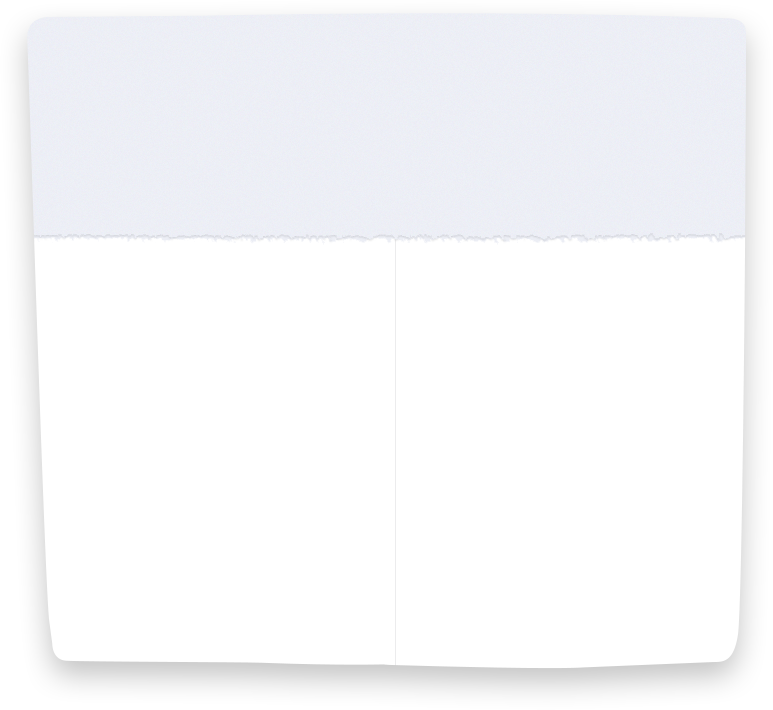
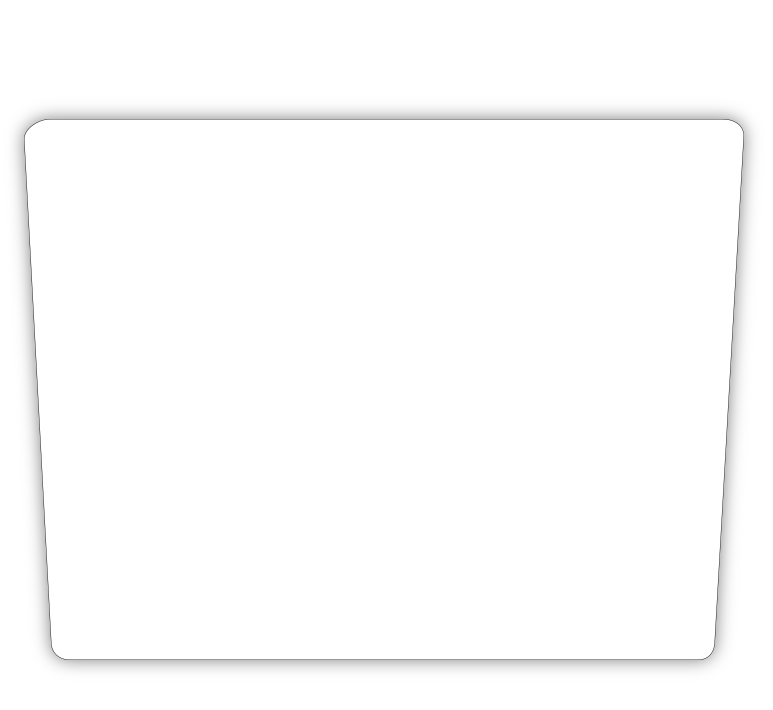
fix modal on checkout page

diff --git a/styles/forms.css b/styles/forms.css
@@ -304,7 +304,10 @@
   padding: 32px 0 30px; }
 
 .form-order-notauth .total {
-  padding: 32px 0 61px; }
+  padding: 139px 0 0px; }
+
+.form-order-notauth .close-custom-modal {
+  top: 138px; }
 
 .form-order-auth .total dl, .form-order-notauth .total dl {
   margin: 0 auto;

diff --git a/styles/forms.sass b/styles/forms.sass
@@ -377,7 +377,10 @@ $close-modal-icon-hover-color: #b2b2b2
 
 
 .form-order-notauth .total
-  padding: 32px 0 61px
+  padding: 139px 0 0px
+
+.form-order-notauth .close-custom-modal
+  top: 138px
 
 
 .form-order-auth .total dl,.form-order-notauth .total dl
